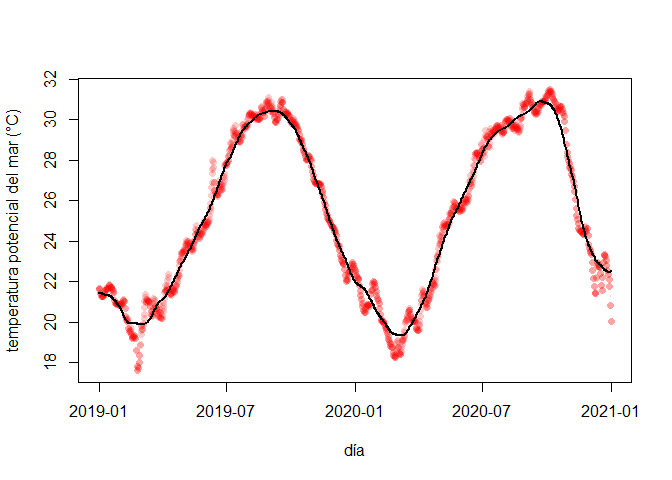
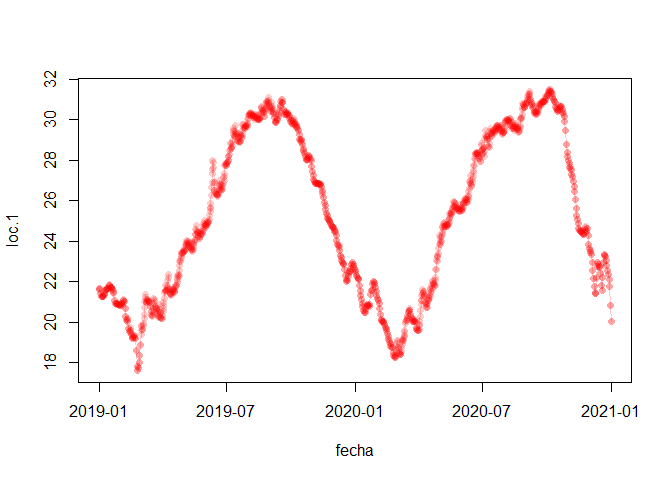
se añadieron ejemplos de promedios anuales de SST

diff --git a/8-Octubre-2025/datos_temporales_R/Datos_Temporales_en_R.md b/8-Octubre-2025/datos_temporales_R/Datos_Temporales_en_R.md
@@ -15,7 +15,7 @@ especializado de fecha (en el caso de Excel).
 Usualmente se usan solo números, por lo que tendríamos algo así como
 “08-10-2025” (dd-mm-aaaa), aunque en algunos casos podría escribirse
 como “2025/Oct/08” (aaaa/mmm/dd). El tiempo podría estar en una columna
-aparte o combinado con la fecha: “2025-10-08 15:30:58” (aaaa-mm-dd
+aparte o combinado con la fecha: “2025/10/08 15:30:58” (aaaa/mm/dd
 hh:mm:ss).
 
 Lo importante en todos los casos es la consistencia, y sobretodo no
@@ -34,18 +34,19 @@ paquete **readxl** usualmente ya pasan como clase `POSIXct`, si el
 formato no es ambiguo. A continuación se describen algunas de estas
 clases especializadas.
 
-## Clase `"Date"`
+## La clase `"Date"`
 
 Esta es tal vez la clase más sencilla cuando solo tenemos fechas.
 
 ``` r
-fechas <- paste("2025", c("7", "10", "11"), c("13", "18", "25"), sep ="-")
+fechas <- paste(2025, c(7, 10, 11), c(13, 18, 25), sep ="-")
 fechas
 ```
 
     [1] "2025-7-13"  "2025-10-18" "2025-11-25"
 
-En el ejemplo, el vector `fechas` es de clase `"character"`.
+En el ejemplo, aunque parecen fechas, el vector generado es de clase
+`"character"`.
 
 ``` r
 class(fechas)
@@ -76,7 +77,7 @@ unclass(fechas)
 
     [1] 20282 20379 20417
 
-Entonces, considerando que al 1 de febrero de 1970 transcurrieron 31
+Por ejemplo, considerando que al 1 de febrero de 1970 transcurrieron 31
 días desde el origen mencionado antes,
 
 ``` r
@@ -85,35 +86,49 @@ días desde el origen mencionado antes,
 
     [1] "1970-02-01"
 
-Con la función `Sys.time()` podemos obtener la fecha-hora actual de
-acuerdo a la configuración local de nuestra computadora.
+Ahora bien, la función `Sys.time()` devuelve la fecha-hora actual de
+acuerdo a la configuración local de nuestra computadora (en una clase
+diferente que explicaremos más adelante)
 
 ``` r
 ahora <- Sys.time()
 ahora
 ```
 
-    [1] "2025-09-30 17:25:51 MST"
+    [1] "2025-10-06 17:29:18 MST"
 
-Al aplicar la función `as.Date()` la hora se descarta.
+Al convertirla con la función `as.Date()`, evidentemente la hora se
+descarta
 
 ``` r
 as.Date(ahora)
 ```
 
-    [1] "2025-10-01"
+    [1] "2025-10-07"
+
+Las clases más utilizadas en R que permiten guardar la fecha, hora y la
+zona de tiempo, como en el ejemplo previo, son **`"POSIXlt"`** y
+**`"POSIXct"`**.
 
 ## La clase `"POSIXlt"`
 
-Las clases más utilizadas en R que permiten guardar la fecha, hora y la
-zona de tiempo son **`"POSIXlt"`** y **`"POSIXct"`**. La primera
-almacena esta información como una lista de vectores `sec`, `min`,
-`hour` para el tiempo; `mday`, `mon` y `year` para la fecha; `wday` y
-`yday` para el día de la semana y el día del año,
-respectivamente;`isdst`, es una bandera para el horario de verano;
-`zone` es una cadena de texto para la zona de tiempo; y `gmtoff` sería
-el *offset* en segundos del horario GMT. La función `strptime()` nos
-permite convertir una cadena de texto a la clase `"POSIXlt"`.
+Almacena la información como una lista de vectores:
+
+`sec`, `min`, `hour` para el tiempo;
+
+`mday`, `mon` y `year` para la fecha;
+
+`wday` y `yday` para el día de la semana y el día del año,
+respectivamente;
+
+`isdst`, es una bandera para el horario de verano;
+
+`zone` es una cadena de texto para la zona de tiempo;
+
+`gmtoff` sería el *offset* en segundos del horario GMT.
+
+La función `strptime()` nos permite convertir una cadena de texto a la
+clase `"POSIXlt"`.
 
 ``` r
 dt <- strptime("2025-10-08 07:12:30", format = "%Y-%m-%d %H:%M:%S", tz = "UTC")
@@ -219,17 +234,33 @@ unclass(psx.ct)
     attr(,"tzone")
     [1] "UTC"
 
-Esto lo podemos comprobar fácilmente.
+Considerando nuevamente el ejemplo anterior, al 1 de febrero de 1970 han
+transcurrido 31 días $\times$ 24 horas $\times$ 60 minutos $\times$ 60
+segundos, es decir 2,678,400 segundos,
 
 ``` r
-# definir origen
-orig <- as.POSIXct("1970-01-01 00:00:00", format = "%Y-%m-%d %H:%M:%S", tz = "UTC") 
-
-# calcular la diferencia entre psx.ct y el origen
-difftime(psx.ct, orig, units = "s")
+31 * 24 * 60 * 60
 ```
 
-    Time difference of 1729149150 secs
+    [1] 2678400
+
+por lo que la función `as.POSIXct()` aplicada a este número nos debería
+devolver dicha fecha:
+
+``` r
+as.POSIXct(2678400) 
+```
+
+    [1] "1970-01-31 17:00:00 MST"
+
+La fecha devuelta resultante no fue la esperada debido a que no se
+especificó la zona de tiempo. La respuesta correcta se obtendría así:
+
+``` r
+as.POSIXct(31 * 24 * 60 * 60 + 1, tz = "UTC")
+```
+
+    [1] "1970-02-01 00:00:01 UTC"
 
 De acuerdo con la ayuda de R, la clase `"POSIXct"` es más conveniente
 para incluirse en *data frames*, mientras que `"POSIXlt"`es una forma
@@ -256,9 +287,10 @@ head(time)
 
     [1] 1546300800 1546387200 1546473600 1546560000 1546646400 1546732800
 
-Inspeccionando un poco el archivo (tecleando ncf en la consola) podemos
-notar que estos números son: “units: seconds since 1970-01-01 00:00:00”,
-por lo que la conversión apropiada sería
+Inspeccionando un poco la información contenida en el archivo netCDF
+(tecleando “ncf” en la consola) podemos notar que estos números son:
+“units: seconds since 1970-01-01 00:00:00”, por lo que la conversión
+apropiada sería
 
 ``` r
 time <- as.POSIXct(time, tz = "UTC", format = "%Y-%m-%d", 
@@ -347,7 +379,7 @@ temperatura en el nivel más superficial
 plot(thetao)
 ```
 
-![](Datos_Temporales_en_R_files/figure-commonmark/unnamed-chunk-21-1.png)
+![](Datos_Temporales_en_R_files/figure-commonmark/unnamed-chunk-23-1.png)
 
 Tomemos por ejemplo un pixel a los 26° de lat N y 110° de lon W
 
@@ -360,8 +392,8 @@ dim(sst)
     [1]    1 1468
 
 En `sst` están los valores de temperatura potencial para el punto
-seleccionado, en los 731 días y para los 5 niveles de profundidad 731
-$\times$ 5 = 3655. Las primeras seis columnas adicionales en `sst`
+seleccionado, en los 731 días y para los 2 niveles de profundidad 731
+$\times$ 2 = 1462. Las primeras seis columnas adicionales en `sst`
 contienen el id del punto o puntos elegidos, las coordenadas de
 latitud-longitud elegidas, las coordenadas del pixel más cercano donde
 hay datos y la distancia entre el punto elegido y el dato devuelto, solo
@@ -407,18 +439,19 @@ head(tsm)
     3   2019-01-03 21.40651
     734 2019-01-03 21.40651
 
-Para graficar la serie de tiempo de temperatura potencial del mar a 0.49
-m de profundidad en el punto anterior usamos la función `plot()`.
+Ahora podemos graficar la serie de tiempo de temperatura potencial del
+mar a 0.49 m de profundidad en el punto anterior usando la función
+`plot()`.
 
 ``` r
 plot(tsm, type = "o", pch = 16, col = rgb(1, 0, 0, 0.2))
 ```
 
-![](Datos_Temporales_en_R_files/figure-commonmark/unnamed-chunk-25-1.png)
+![](Datos_Temporales_en_R_files/figure-commonmark/unnamed-chunk-27-1.png)
 
 Esta serie se puede suavizar con promedios móviles centrados mediante la
 función `cma()` del paquete **smooth** que tiene la ventaja de no
-producir valores faltantes.
+producir valores faltantes (ver ayuda con `?sma`)
 
 ``` r
 library(smooth)
@@ -429,7 +462,6 @@ library(smooth)
     Package "greybox", v2.0.4 loaded.
 
     This is package "smooth", v4.2.0
-    If you want to know more about the smooth package and forecasting, you can visit my website: https://www.openforecast.org/
 
 ``` r
 sm <- cma(tsm$loc.1, order = 90)
@@ -440,10 +472,11 @@ plot(tsm$fecha, tsm$loc.1, type = "b", pch = 16, col = rgb(1, 0, 0, 0.2),
 lines(tsm$fecha, tsm$sm, lwd = 2)
 ```
 
-![](Datos_Temporales_en_R_files/figure-commonmark/unnamed-chunk-26-1.png)
+![](Datos_Temporales_en_R_files/figure-commonmark/unnamed-chunk-28-1.png)
 
-Si quisiéramos obtener los promedios mensuales, podríamos extraer el mes
-y el año de la fecha y
+Podemos simplificar aún más esta información, por ejemplo calculando los
+promedios mensuales. Para ello primero extraemos el mes y el año de la
+fecha con funciones del paquete **lubridate**:
 
 ``` r
 library(lubridate)
@@ -474,7 +507,7 @@ head(tsm)
     3   2019-01-03 21.40651 21.42621   1 2019
     734 2019-01-03 21.40651 21.41993   1 2019
 
-Agregar por año mes
+A continuación la tabla se agrega calculando los promedios deseados
 
 ``` r
 tsm.mens <- aggregate(tsm$loc.1, by = list(mes = tsm$mes, año = tsm$año), mean)
@@ -507,16 +540,19 @@ tsm.mens
     23  11 2020 25.41389
     24  12 2020 22.42815
 
+El gráfico correspondiente requiere definir un vector con la posición
+donde queremos poner cada promedio, por ejemplo el día 15 de cada mes
+
 ``` r
 mes <- as.Date(paste(tsm.mens$año, tsm.mens$mes, 15, sep = "-"))
-plot(mes, tsm.mens$x,
-     xlab = "mes", ylab = "temperatura (°C)", type = "b")
+plot(mes, tsm.mens$x, xlab = "mes", ylab = "temperatura (°C)", type = "b")
 ```
 
-![](Datos_Temporales_en_R_files/figure-commonmark/unnamed-chunk-29-1.png)
+![](Datos_Temporales_en_R_files/figure-commonmark/unnamed-chunk-31-1.png)
 
-Si quisieramos personallizar el espaciamiento de las marcas de
-graduación en x, por ejemplo cada mes
+Si quisiéramos personalizar el espaciamiento de las marcas de graduación
+en x, por ejemplo cada mes, sin perder de vista que tenemos dos años de
+datos, podríamos usar doble eje x:
 
 ``` r
 rng <- range(mes)
@@ -527,6 +563,71 @@ axis.Date(side = 1, at = mes, labels = format(xmes, format = "%b"))
 axis.Date(side = 1, at = xmes[c(1, 13)], labels = c(2019, 2020), line = 2, lwd = 0)
 ```
 
-![](Datos_Temporales_en_R_files/figure-commonmark/unnamed-chunk-30-1.png)
+![](Datos_Temporales_en_R_files/figure-commonmark/unnamed-chunk-32-1.png)
 
-  
+Otros resúmenes de la información son posibles, como los promedios
+mensuales (sin importar el año):
+
+``` r
+# promedio mensual
+tapply(tsm$loc.1, tsm$mes, mean)
+```
+
+           1        2        3        4        5        6        7        8 
+    21.39095 19.57168 20.07019 21.73676 24.61104 26.72782 29.14325 30.13666 
+           9       10       11       12 
+    30.59194 29.70621 25.75997 22.78200 
+
+o los promedios anuales:
+
+``` r
+# promedio anual
+tapply(tsm$loc.1, tsm$año, mean)
+```
+
+        2019     2020 
+    25.17215 25.25366 
+
+Por último, regresando a los datos diarios importados antes, podríamos
+obtener promedios (u otros resúmenes, e.g. desviación estándar) de cada
+pixel en la zona de estudio gracias a la información de las fechas en
+dicho objeto:
+
+``` r
+# Promedio temperaturas de cada año
+sst.anual <- satinMean(thetao, by = "%Y")
+sst.anual
+```
+
+    Object of class satin
+
+     Title: thetao 
+     Long name: Temperature 
+     Name: thetao 
+     Units: degrees_C 
+     Temporal range: yearly 
+     Spatial resolution: 9.2 km 
+
+    Data dimensions:
+     61 60 2 
+
+    Data ranges:
+              lon lat   thetao     period    depth
+    min -112.0000  22 21.67558 2019-01-01 0.494025
+    max -107.0833  27 26.89789 2020-12-31 0.494025
+
+quedando las figuras
+
+``` r
+# 2019
+plot(sst.anual, period = 1, zlim = c(21.6, 26.9))
+```
+
+![](Datos_Temporales_en_R_files/figure-commonmark/unnamed-chunk-36-1.png)
+
+``` r
+# 2020
+plot(sst.anual, period = 2, zlim = c(21.6, 26.9))
+```
+
+![](Datos_Temporales_en_R_files/figure-commonmark/unnamed-chunk-36-2.png)
